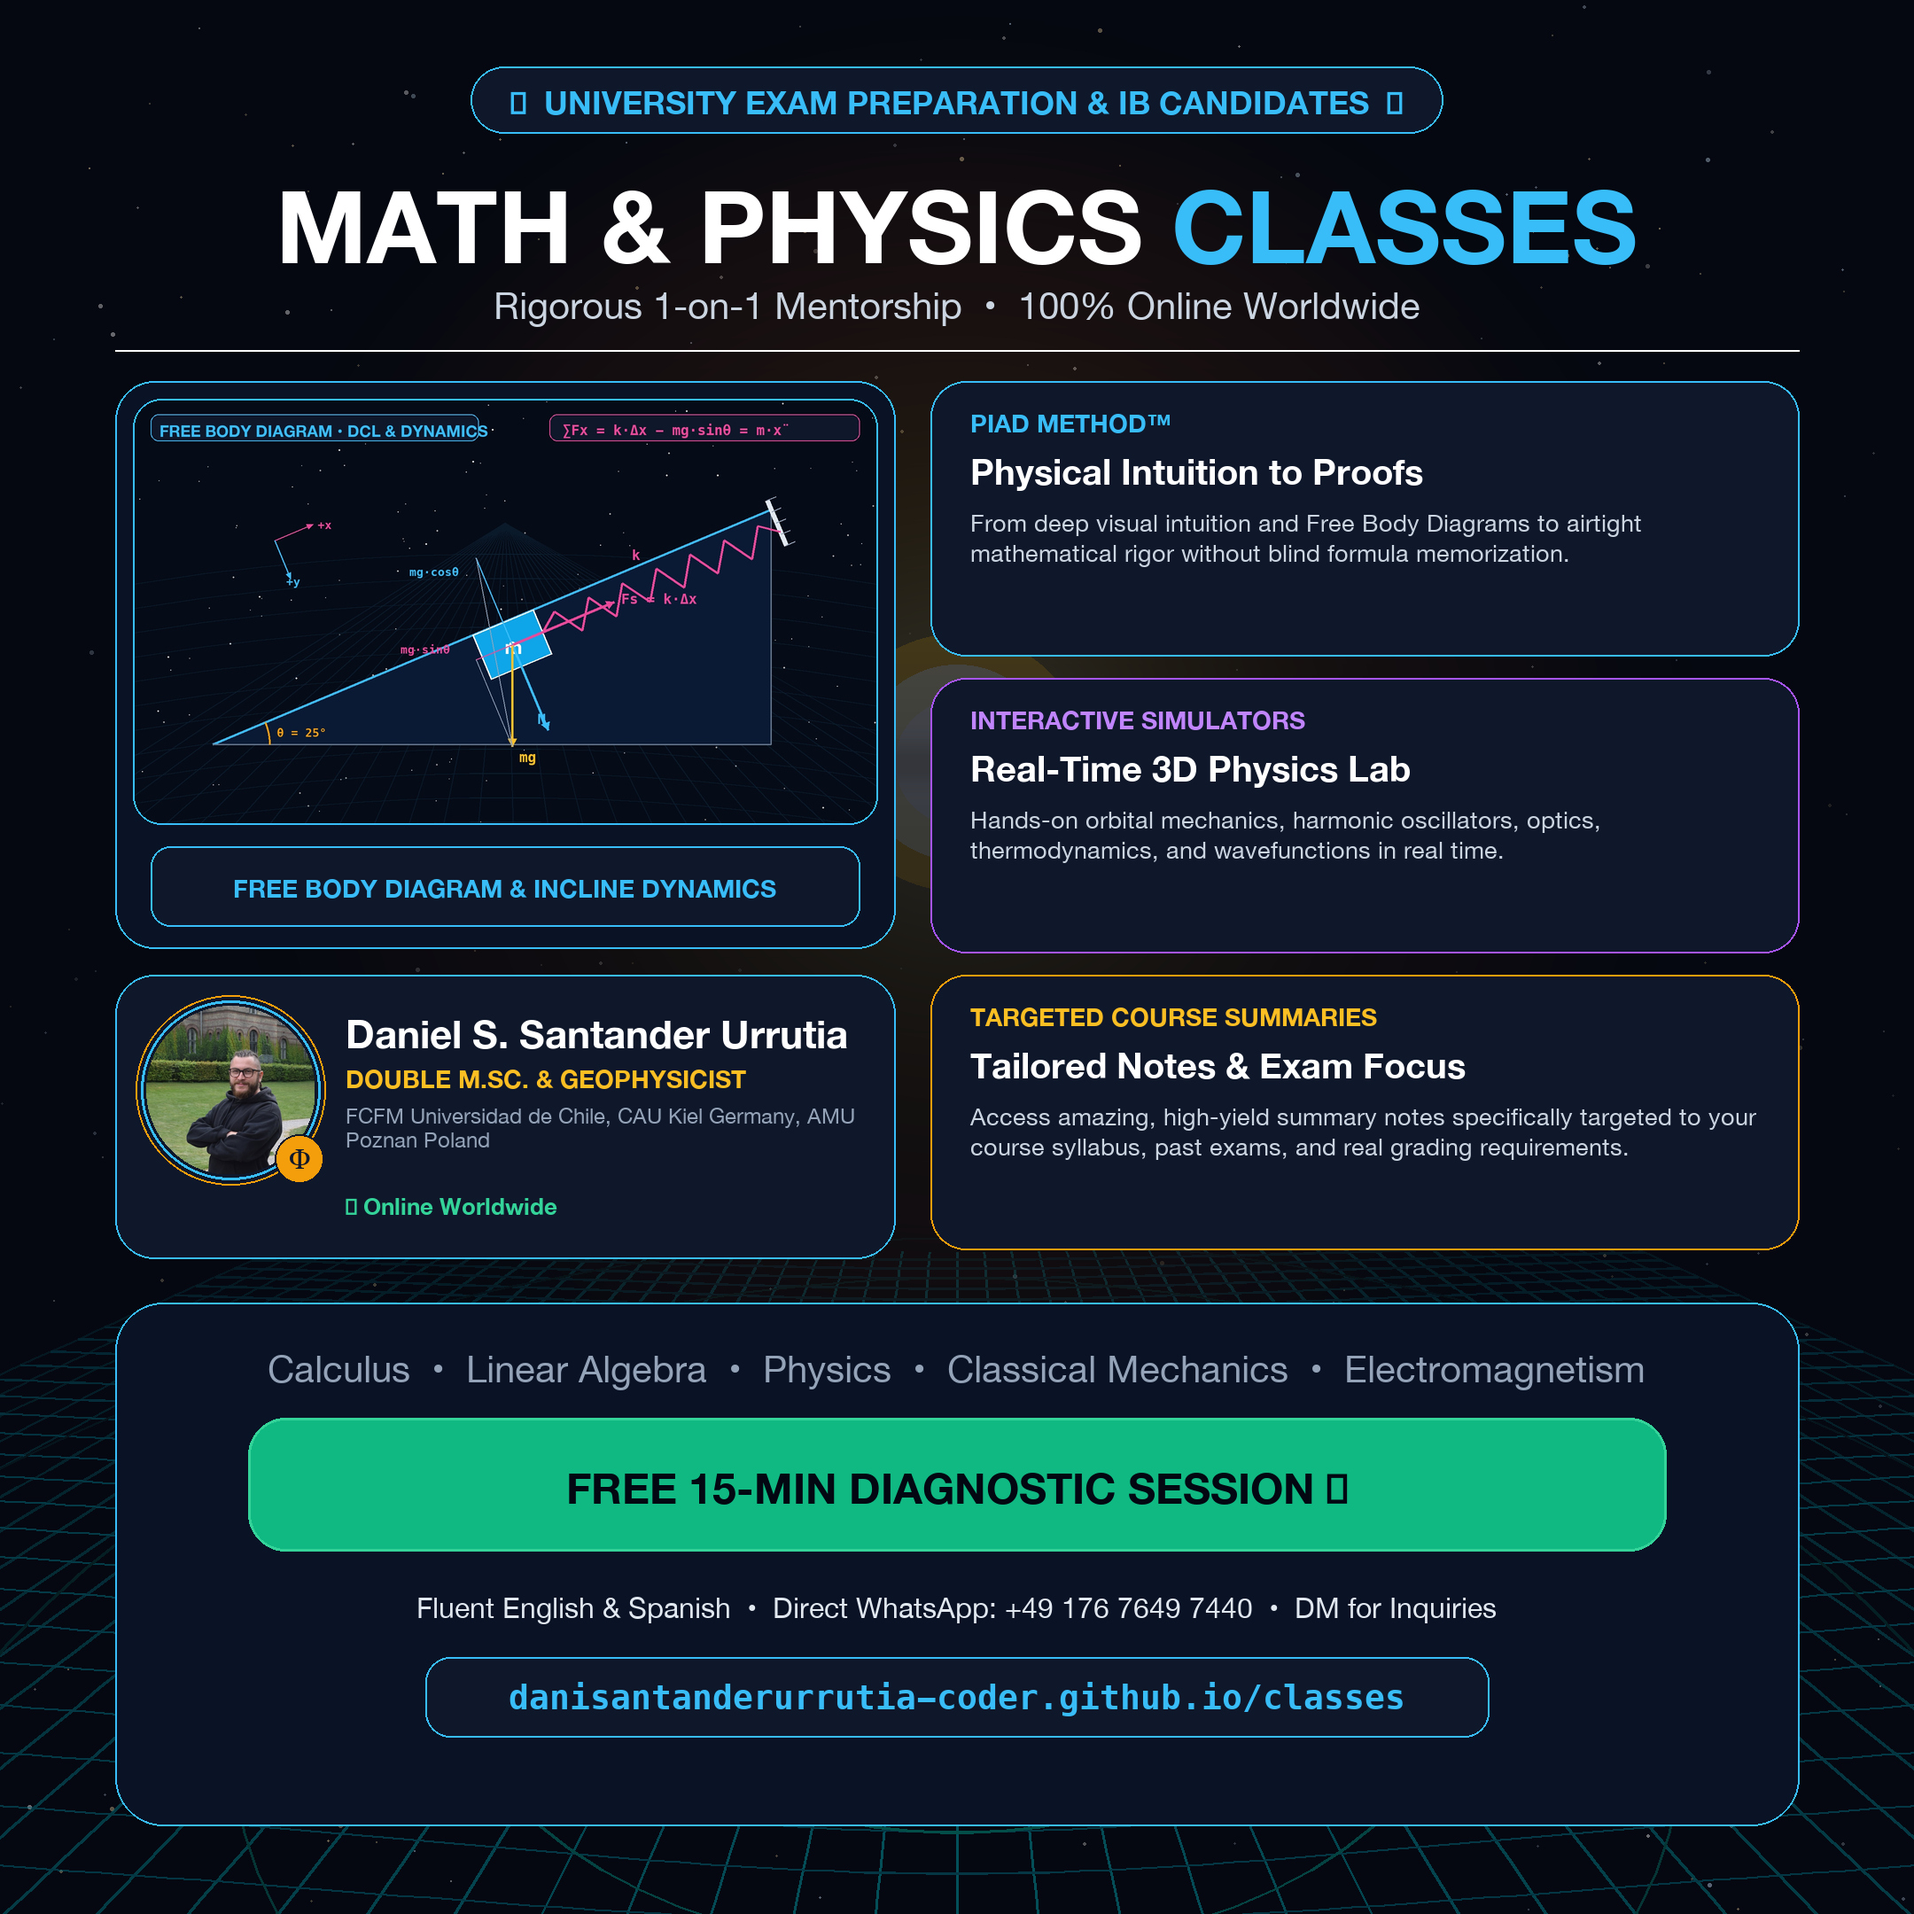
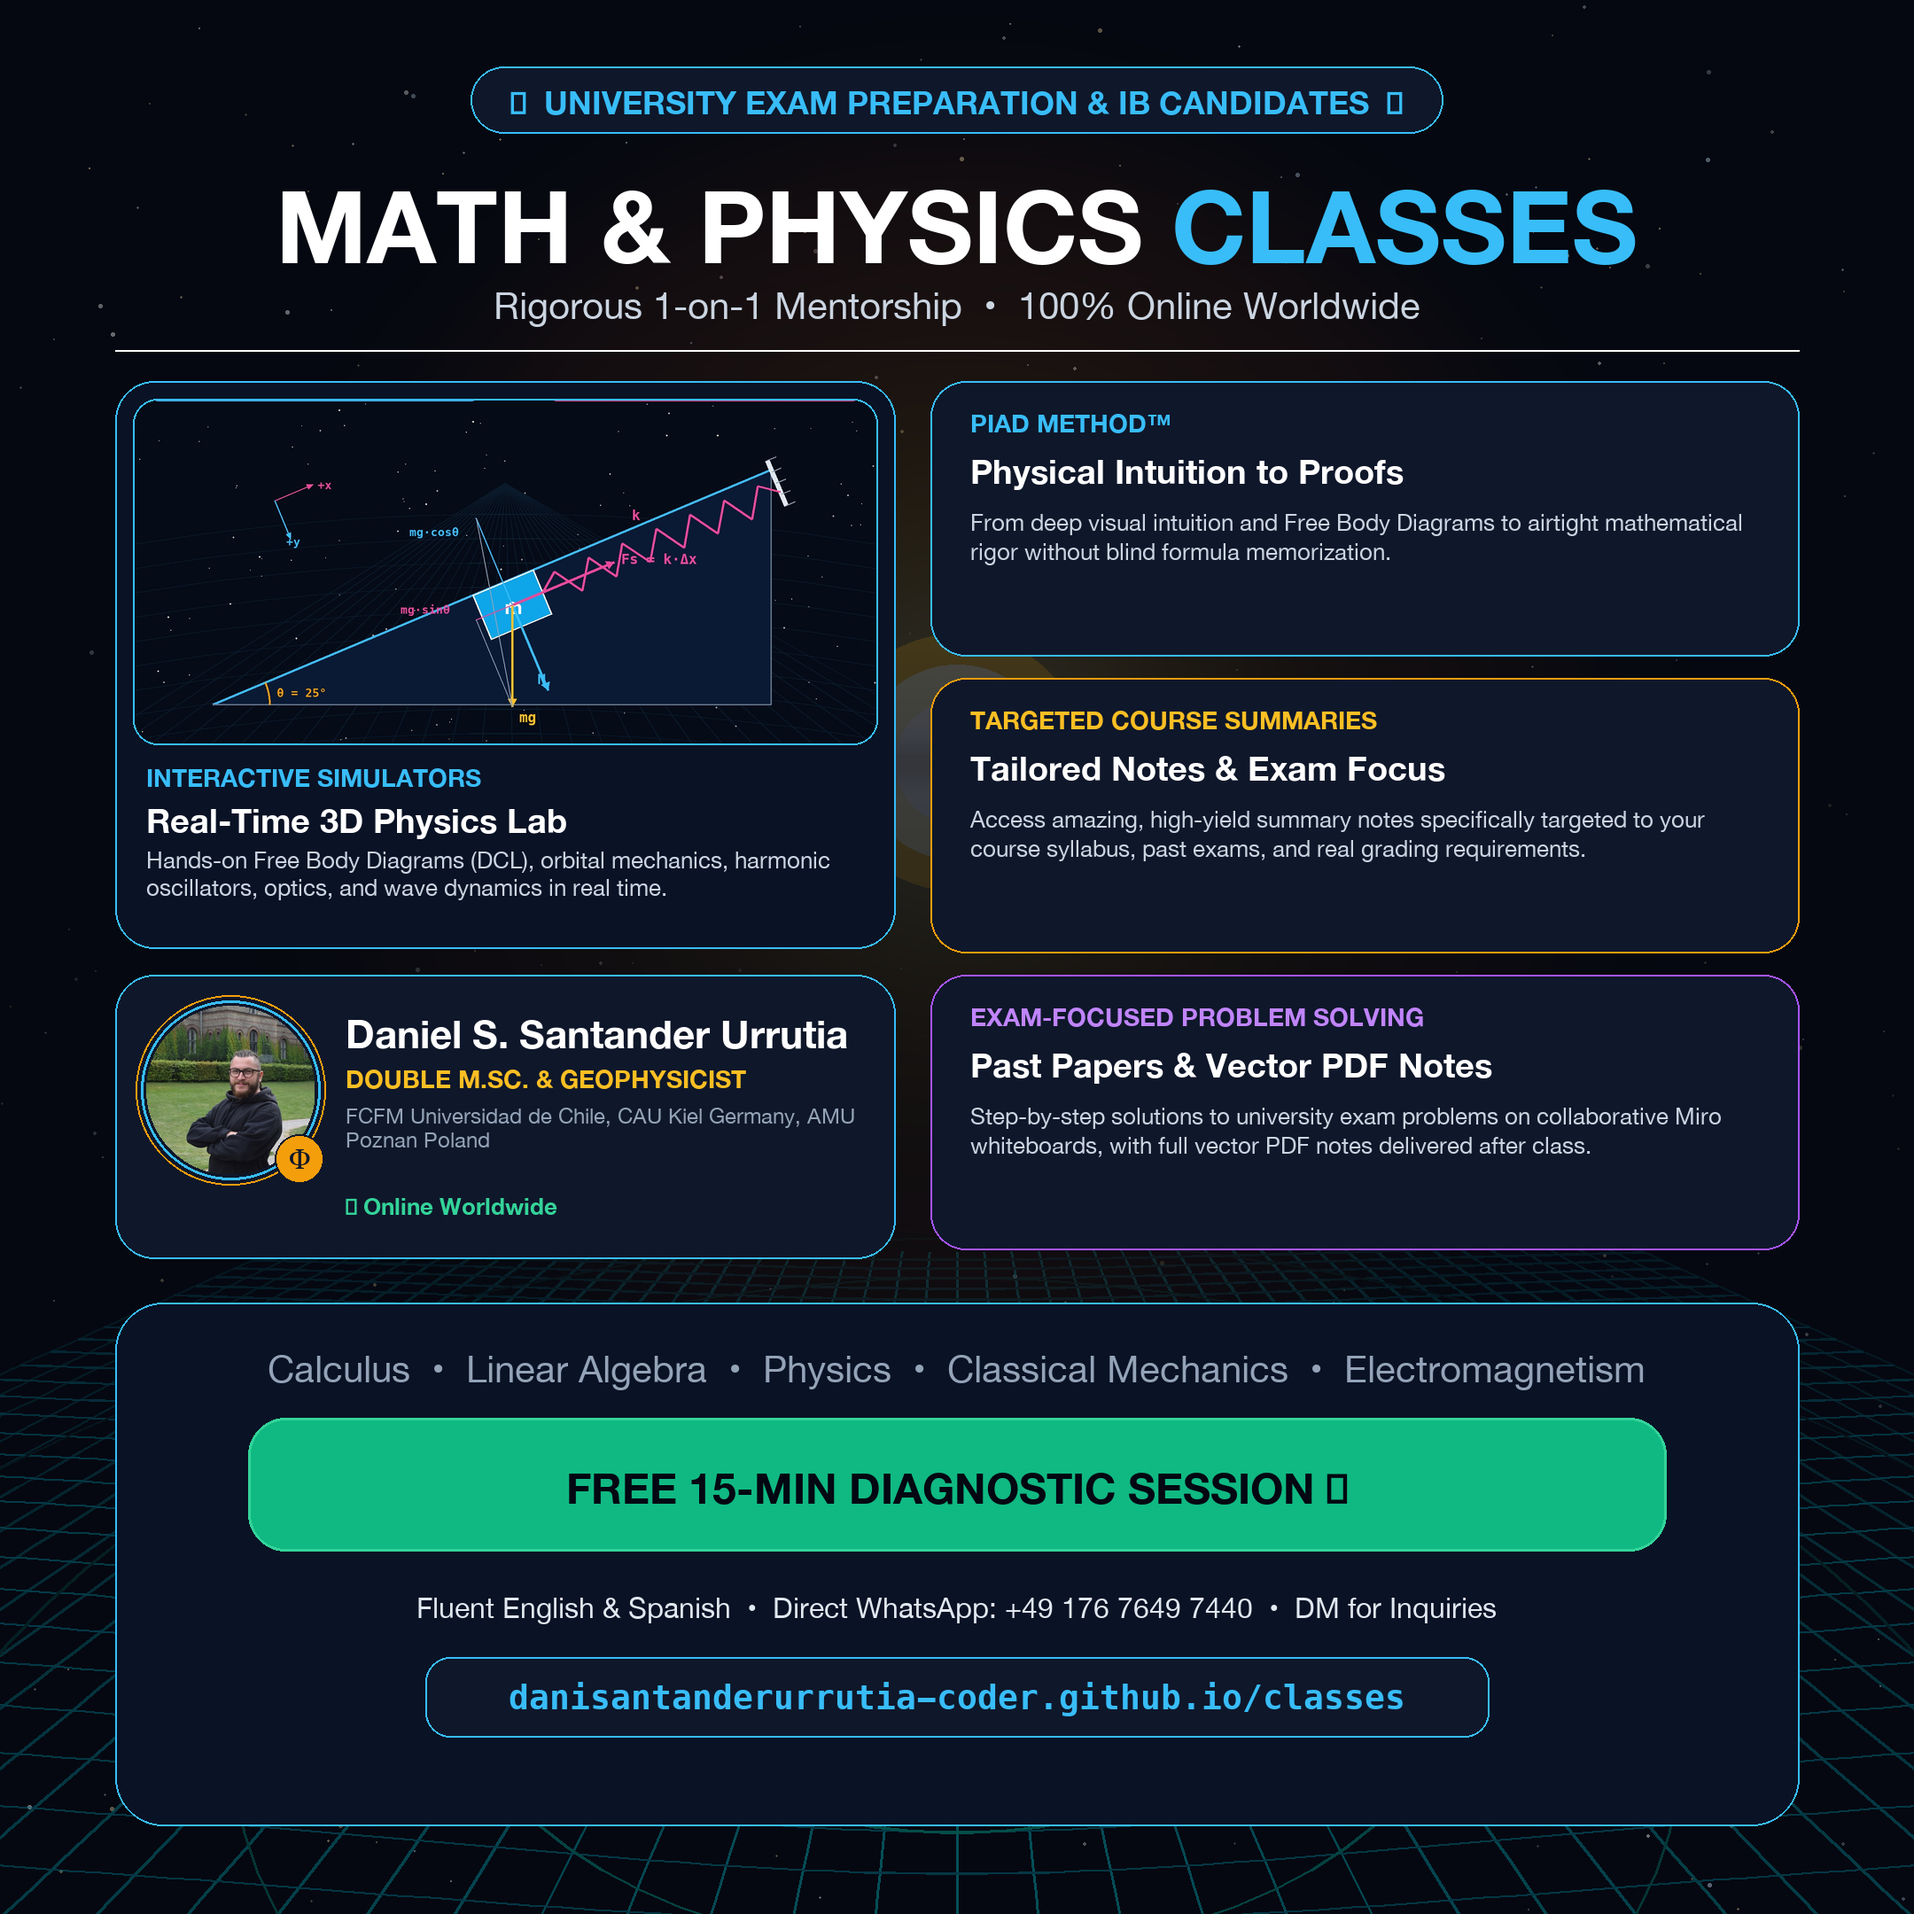
feat(instagram): integrate interactive simulators card with DCL incline illustration

diff --git a/scripts/generate_instagram_cards_multilang.py b/scripts/generate_instagram_cards_multilang.py
@@ -165,8 +165,8 @@ def generate_card(lang='en', filename='public/instagram_post_en.jpg'):
 
     f_phi_badge = ImageFont.truetype(font_serif, 32)
     f_card_tag = ImageFont.truetype(font_bold, 28, index=1)
-    f_card_title = ImageFont.truetype(font_bold, 40, index=1)
-    f_card_desc = ImageFont.truetype(font_bold, 27, index=0)
+    f_card_title = ImageFont.truetype(font_bold, 38, index=1)
+    f_card_desc = ImageFont.truetype(font_bold, 26, index=0)
 
     f_cta_bold = ImageFont.truetype(font_bold, 48, index=1)
     f_cta_sub = ImageFont.truetype(font_bold, 32, index=0)
@@ -180,6 +180,15 @@ def generate_card(lang='en', filename='public/instagram_post_en.jpg'):
         creds_title = "DOBLE M.SC. & GEOFÍSICO"
         uni_text = "FCFM Universidad de Chile, CAU Kiel Germany, AMU Poznan Poland"
         loc_text = "📍 Online Worldwide"
+        
+        # Left card text directly beneath the DCL simulation
+        left_sim_card = {
+            "tag": "SIMULADORES INTERACTIVOS",
+            "title": "Laboratorio en Tiempo Real",
+            "desc": "Diagramas de Cuerpo Libre (DCL), mecánica orbital, osciladores y óptica con simulación interactiva paso a paso."
+        }
+        
+        # 3 Right column features
         features = [
             {
                 "tag": "MÉTODO PIAD™",
@@ -189,24 +198,23 @@ def generate_card(lang='en', filename='public/instagram_post_en.jpg'):
                 "tag_color": (56, 189, 248)
             },
             {
-                "tag": "SIMULADORES INTERACTIVOS",
-                "title": "Laboratorio de Física en Tiempo Real",
-                "desc": "Mecánica orbital, osciladores, óptica, termodinámica y ondas con simulación interactiva paso a paso.",
-                "border": (168, 85, 247, 140),
-                "tag_color": (192, 132, 252)
-            },
-            {
                 "tag": "RESÚMENES DE ALTO IMPACTO",
                 "title": "Apuntes Clave & Enfoque de Examen",
                 "desc": "Acceso a resúmenes increíbles y apuntes de alto impacto, enfocados exactamente en los contenidos y necesidades reales de tu curso.",
                 "border": (245, 158, 11, 140),
                 "tag_color": (251, 191, 36)
+            },
+            {
+                "tag": "RESOLUCIÓN DE CERTÁMENES",
+                "title": "Pautas Reales & Apuntes Vectoriales",
+                "desc": "Entrenamiento directo en problemas de certámenes universitarios con pizarra interactiva Miro y entrega de apuntes PDF vectoriales.",
+                "border": (168, 85, 247, 140),
+                "tag_color": (192, 132, 252)
             }
         ]
         subjects_text = "Cálculo Diferencial & Integral  •  Álgebra Lineal  •  Física  •  Mecánica Clásica  •  Electromagnetismo"
         cta_main = "SESIÓN DIAGNÓSTICA GRATUITA (15 MIN) ➔"
         cta_sub = "100% en Español o Inglés  •  WhatsApp: +49 176 7649 7440  •  DM por interno"
-        sim_badge = "DIAGRAMA DE CUERPO LIBRE & DINÁMICA"
     else:
         pill_text = "★  UNIVERSITY EXAM PREPARATION & IB CANDIDATES  ★"
         title_part1 = "MATH & PHYSICS "
@@ -215,6 +223,15 @@ def generate_card(lang='en', filename='public/instagram_post_en.jpg'):
         creds_title = "DOUBLE M.SC. & GEOPHYSICIST"
         uni_text = "FCFM Universidad de Chile, CAU Kiel Germany, AMU Poznan Poland"
         loc_text = "📍 Online Worldwide"
+
+        # Left card text directly beneath the DCL simulation
+        left_sim_card = {
+            "tag": "INTERACTIVE SIMULATORS",
+            "title": "Real-Time 3D Physics Lab",
+            "desc": "Hands-on Free Body Diagrams (DCL), orbital mechanics, harmonic oscillators, optics, and wave dynamics in real time."
+        }
+
+        # 3 Right column features
         features = [
             {
                 "tag": "PIAD METHOD™",
@@ -224,24 +241,23 @@ def generate_card(lang='en', filename='public/instagram_post_en.jpg'):
                 "tag_color": (56, 189, 248)
             },
             {
-                "tag": "INTERACTIVE SIMULATORS",
-                "title": "Real-Time 3D Physics Lab",
-                "desc": "Hands-on orbital mechanics, harmonic oscillators, optics, thermodynamics, and wavefunctions in real time.",
-                "border": (168, 85, 247, 140),
-                "tag_color": (192, 132, 252)
-            },
-            {
                 "tag": "TARGETED COURSE SUMMARIES",
                 "title": "Tailored Notes & Exam Focus",
                 "desc": "Access amazing, high-yield summary notes specifically targeted to your course syllabus, past exams, and real grading requirements.",
                 "border": (245, 158, 11, 140),
                 "tag_color": (251, 191, 36)
+            },
+            {
+                "tag": "EXAM-FOCUSED PROBLEM SOLVING",
+                "title": "Past Papers & Vector PDF Notes",
+                "desc": "Step-by-step solutions to university exam problems on collaborative Miro whiteboards, with full vector PDF notes delivered after class.",
+                "border": (168, 85, 247, 140),
+                "tag_color": (192, 132, 252)
             }
         ]
         subjects_text = "Calculus  •  Linear Algebra  •  Physics  •  Classical Mechanics  •  Electromagnetism"
         cta_main = "FREE 15-MIN DIAGNOSTIC SESSION ➔"
         cta_sub = "Fluent English & Spanish  •  Direct WhatsApp: +49 176 7649 7440  •  DM for Inquiries"
-        sim_badge = "FREE BODY DIAGRAM & INCLINE DYNAMICS"
 
     # --- TOP HEADER ---
     bbox_pill = draw.textbbox((0, 0), pill_text, font=f_badge)
@@ -268,9 +284,9 @@ def generate_card(lang='en', filename='public/instagram_post_en.jpg'):
     col_l_x = 130
     col_l_w = 880
     
-    # 1. Left Card: Featured Interactive Lab Visual Showcase
+    # 1. Left Card: Featured Interactive Simulators Showcase (Image + Explanatory Card)
     box_sim = [(col_l_x, 430), (col_l_x + col_l_w, 1070)]
-    draw_card_box(draw, box_sim, fill=(10, 18, 38, 235), border=(56, 189, 248, 120), radius=44, width=2)
+    draw_card_box(draw, box_sim, fill=(10, 18, 38, 235), border=(56, 189, 248, 140), radius=44, width=2)
 
     # Embed DCL Incline with Spring illustration
     lab_img_path = 'public/emblems/dcl_incline_spring.jpg'
@@ -280,23 +296,24 @@ def generate_card(lang='en', filename='public/instagram_post_en.jpg'):
 
     if os.path.exists(lab_img_path):
         l_img = Image.open(lab_img_path).convert('RGBA')
-        l_w, l_h = col_l_w - 40, 480
+        l_w, l_h = col_l_w - 40, 390
         l_img = ImageOps.fit(l_img, (l_w, l_h), method=Image.Resampling.LANCZOS)
         
         # Rounded mask for image
         l_mask = Image.new('L', (l_w, l_h), 0)
         d_lmask = ImageDraw.Draw(l_mask)
-        d_lmask.rounded_rectangle([(0, 0), (l_w, l_h)], radius=32, fill=255)
+        d_lmask.rounded_rectangle([(0, 0), (l_w, l_h)], radius=28, fill=255)
         
         base.paste(l_img, (col_l_x + 20, 450), l_mask)
-        draw.rounded_rectangle([(col_l_x + 20, 450), (col_l_x + 20 + l_w, 450 + l_h)], radius=32, outline=(56, 189, 248, 100), width=2)
+        draw.rounded_rectangle([(col_l_x + 20, 450), (col_l_x + 20 + l_w, 450 + l_h)], radius=28, outline=(56, 189, 248, 120), width=2)
 
-    # Simulation badge & caption
-    draw.rounded_rectangle([(col_l_x + 40, 955), (col_l_x + col_l_w - 40, 1045)], radius=22, fill=(15, 23, 42, 235), outline=(56, 189, 248, 180), width=2)
-    bbox_simb = draw.textbbox((0, 0), sim_badge, font=f_creds_title)
-    draw.text((col_l_x + (col_l_w - (bbox_simb[2] - bbox_simb[0])) // 2, 985), sim_badge, font=f_creds_title, fill=(56, 189, 248))
+    # Interactive Simulators Card content directly beneath the DCL image:
+    draw.text((col_l_x + 35, 860), left_sim_card["tag"], font=f_card_tag, fill=(56, 189, 248))
+    draw.text((col_l_x + 35, 902), left_sim_card["title"], font=f_card_title, fill=(255, 255, 255))
+    wrapped_sim_desc = wrap_text(left_sim_card["desc"], col_l_w - 70, f_card_desc, draw)
+    draw.multiline_text((col_l_x + 35, 955), wrapped_sim_desc, font=f_card_desc, fill=(203, 213, 225), spacing=6)
 
-    # 2. Compact Tutor Profile Card (Small on border/corner as requested!)
+    # 2. Compact Tutor Profile Card (Small on border/corner)
     box_prof = [(col_l_x, 1100), (col_l_x + col_l_w, 1420)]
     draw_card_box(draw, box_prof, fill=(15, 23, 42, 235), border=(56, 189, 248, 90), radius=44, width=2)
 
